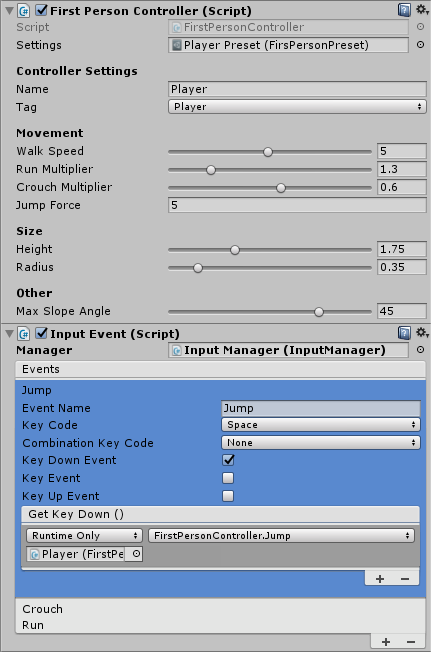
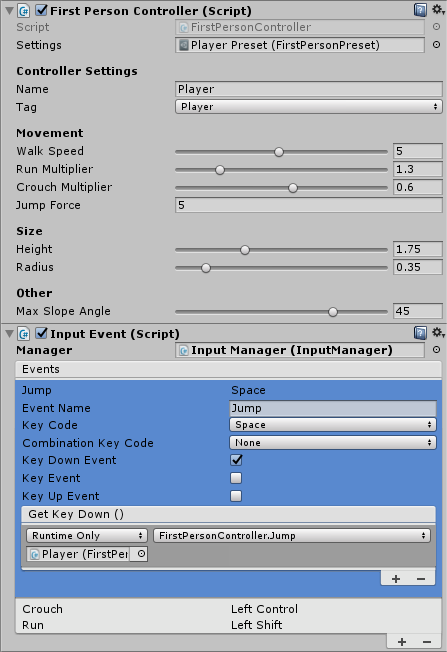
Updated example picture and did some refactoring for input event inspector.

diff --git a/FPController/Assets/FPController/Script/Editor/InputEventInspector.cs b/FPController/Assets/FPController/Script/Editor/InputEventInspector.cs
@@ -5,9 +5,19 @@ using UnityEngine;
 
 namespace FPController.FPEditor
 {
+    /// <summary>
+    /// Class to store data about reordable list elements.
+    /// </summary>
     public class ListItem
     {
+        /// <summary>
+        /// Elements height.
+        /// </summary>
         public float Height;
+
+        /// <summary>
+        /// Is the element expanded.
+        /// </summary>
         public bool Expanded;
 
         public ListItem() : this(EditorGUIUtility.singleLineHeight, false)
@@ -28,6 +38,10 @@ namespace FPController.FPEditor
     [CustomEditor(typeof(InputEvent))]
     public class InputEventInspector : Editor
     {
+        /*
+         * Variables.
+         */
+
         /// <summary>
         /// Reordable list for InputEvent.m_events.
         /// </summary>
@@ -38,6 +52,10 @@ namespace FPController.FPEditor
         /// Used to control list elements height (selected/not selected).
         /// </summary>
         private List<ListItem> m_heights;
+
+        /*
+         * Editor Functions.
+         */
 
         private void OnEnable()
         {
@@ -51,48 +69,72 @@ namespace FPController.FPEditor
             //Create reordable list.
             m_list = new ReorderableList(serializedObject, serializedObject.FindProperty("m_events"), false, true, true, true)
             {
-                elementHeight = EditorGUIUtility.singleLineHeight,
-                drawHeaderCallback = (Rect rect) =>
-                {
-                    EditorGUI.LabelField(rect, "Events");
-                },
-                drawElementCallback = (Rect rect, int index, bool isActive, bool isFocused) =>
-                {
-                    var element = m_list.serializedProperty.GetArrayElementAtIndex(index);
-                    rect.y += 2;
-                    DrawListItemHeader(rect, element);
-                    m_heights[index].Expanded = isActive;
-                    //Draw elements content if it's selected.
-                    if(isActive)
-                        DrawListItemContent(rect, index, element);
-                },
-                elementHeightCallback = (index) =>
-                {
-                    Repaint();
-                    return m_heights[index].Expanded ? m_heights[index].Height : EditorGUIUtility.singleLineHeight;
-                },
-                onAddCallback = (list) =>
-                {
-                    var index = list.serializedProperty.arraySize;
-                    list.serializedProperty.arraySize++;
-                    list.index = index;
-                    var element = list.serializedProperty.GetArrayElementAtIndex(index);
-                    element.FindPropertyRelative("Name").stringValue = "Input Name";
-                    element.FindPropertyRelative("KeyCode").enumValueIndex = 0;
-                    element.FindPropertyRelative("CombinationKeyCode").enumValueIndex = 0;
-                    element.FindPropertyRelative("KeyDownEvent").boolValue = false;
-                    element.FindPropertyRelative("KeyEvent").boolValue = false;
-                    element.FindPropertyRelative("KeyUpEvent").boolValue = false;
-                    //TODO: Reset unity events, currently cloning events from previous event.
-                    m_heights.Add(new ListItem());
-                },
-                onRemoveCallback = (list) =>
-                {
-                    m_heights.RemoveAt(list.index);
-                    list.serializedProperty.DeleteArrayElementAtIndex(list.index);
-                }
+                drawHeaderCallback = (Rect rect) => DrawHeaderCallback(rect),
+                drawElementCallback = (Rect rect, int index, bool isActive, bool isFocused)
+                    => DrawElementCallback(rect, index, isActive, isFocused),
+                elementHeightCallback = (index) => ElementHeightCallback(index),
+                onAddCallback = (list) => OnAddCallback(list),
+                onRemoveCallback = (list) => OnRemoveCallback(list)
             };
         }
+
+        public override void OnInspectorGUI()
+        {
+            serializedObject.Update();
+            EditorGUILayout.PropertyField(serializedObject.FindProperty("m_manager"));
+            m_list.DoLayoutList();
+            serializedObject.ApplyModifiedProperties();
+        }
+
+        /*
+         * Reorderable List Functions.
+         */
+
+        private void DrawHeaderCallback(Rect _rect)
+        {
+            EditorGUI.LabelField(_rect, "Events");
+        }
+
+        private void DrawElementCallback(Rect _rect, int _index, bool _isActive, bool _isFocused)
+        {
+            var element = m_list.serializedProperty.GetArrayElementAtIndex(_index);
+            DrawListItemHeader(_rect, element);
+            //Draw content if selected.
+            if(m_heights[_index].Expanded = _isActive)
+                DrawListItemContent(_rect, _index, element);
+        }
+
+        private float ElementHeightCallback(int _index)
+        {
+            Repaint();
+            return m_heights[_index].Expanded ? m_heights[_index].Height : EditorGUIUtility.singleLineHeight;
+        }
+
+        private void OnAddCallback(ReorderableList _list)
+        {
+            var index = _list.serializedProperty.arraySize;
+            _list.serializedProperty.arraySize++;
+            _list.index = index;
+            var element = _list.serializedProperty.GetArrayElementAtIndex(index);
+            element.FindPropertyRelative("Name").stringValue = "Input Name";
+            element.FindPropertyRelative("KeyCode").enumValueIndex = 0;
+            element.FindPropertyRelative("CombinationKeyCode").enumValueIndex = 0;
+            element.FindPropertyRelative("KeyDownEvent").boolValue = false;
+            element.FindPropertyRelative("KeyEvent").boolValue = false;
+            element.FindPropertyRelative("KeyUpEvent").boolValue = false;
+            //TODO: Reset unity events, currently cloning events from previous event.
+            m_heights.Add(new ListItem());
+        }
+
+        private void OnRemoveCallback(ReorderableList _list)
+        {
+            m_heights.RemoveAt(_list.index);
+            _list.serializedProperty.DeleteArrayElementAtIndex(_list.index);
+        }
+
+        /*
+         * Private Functions.
+         */
 
         /// <summary>
         /// Draw reordable list element header inside given rect with given property.
@@ -116,7 +158,7 @@ namespace FPController.FPEditor
         }
 
         /// <summary>
-        /// Draw proprestys content inside reordable list.
+        /// Draw propertys content inside reordable list.
         /// </summary>
         /// <param name="_rect">Position inside reordable list.</param>
         /// <param name="_index">Index for current element. Used to control height.</param>
@@ -153,33 +195,22 @@ namespace FPController.FPEditor
             //Draw properties with a loop.
             foreach(var line in properties)
             {
-                //If drawing multiple properties on same line, change line before drawing anything.
-                if(!singleLine)
-                {
-                    rect.y += lineHeight;
-                    height += lineHeight;
-                }
-                //Reset horizontal position to left of reordable list.
+                //Move to starting position.
                 rect.x = _rect.x;
-                //If single line fill whole reordable list width with single property.
-                //If multiple properties on single line, divide width with count of properties on current line.
+                rect.y += singleLine ? 0 : lineHeight;
+                height += singleLine ? 0 : lineHeight;
+                //Calculate width for each field, if the line contains multiple fields.
                 rect.width = singleLine ? _rect.width : _rect.width / line.Length;
                 //Draw properties on currentline.
                 foreach(var entry in line)
                 {
-                    //If only one property on single line, change line before drawing anything.
-                    if(singleLine)
-                    {
-                        rect.y += lineHeight;
-                        height += lineHeight;
-                    }
+                    //Move the new line, if one line contains only one field.
+                    rect.y += singleLine ? lineHeight : 0;
+                    height += singleLine ? lineHeight : 0;
                     //Draw property field.
                     EditorGUI.PropertyField(rect, entry);
-                    //If multiple properties on single line, move horizontal position.
-                    if(!singleLine)
-                    {
-                        rect.x += rect.width;
-                    }
+                    //Move position horizontally, if one line contains multiple fields.
+                    rect.x += singleLine ? 0 : rect.width;
                 }
             }
 
@@ -205,16 +236,16 @@ namespace FPController.FPEditor
                 }
             };
 
-            //Draw events.
+            //Loop through events.
             foreach(var entry in events)
             {
-                //Draw event only if it's wanted.
+                //Draw event only if the user has selected to include it.
                 if(entry.Value)
                 {
                     //Draw event.
                     EditorGUI.PropertyField(rect, entry.Key);
                     //Calculate height for current event.
-                    //Height can very depending on how many functions are added to it.
+                    //Height can vary depending on how many functions are added to the event.
                     var addition = EditorGUI.GetPropertyHeight(entry.Key) + 15f;
                     height += addition;
                     rect.y += addition;
@@ -225,13 +256,9 @@ namespace FPController.FPEditor
             m_heights[_index].Height = height;
         }
 
-        public override void OnInspectorGUI()
-        {
-            serializedObject.Update();
-            EditorGUILayout.PropertyField(serializedObject.FindProperty("m_manager"));
-            m_list.DoLayoutList();
-            serializedObject.ApplyModifiedProperties();
-        }
+        /*
+         * Accessors.
+         */
 
         /// <summary>
         /// Current inspector target as input event.
